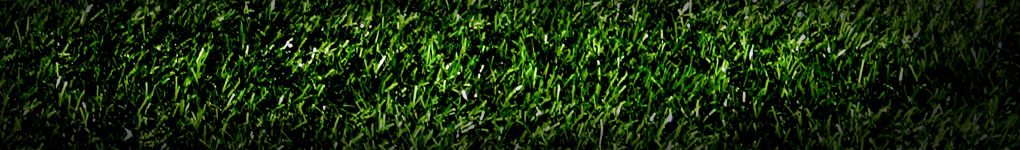
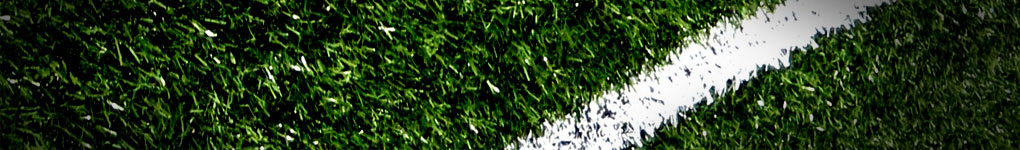
Add an improved header image and a brown background

diff --git a/static/css/pickem.css b/static/css/pickem.css
@@ -1,5 +1,5 @@
 html {
-    background: #030;
+    background: #30240e;
 }
 
 body {
